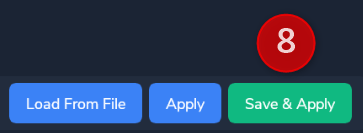
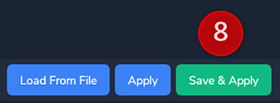
Added additional throttle without reverser and detents.

diff --git a/docs/start/throttle-calibration.md b/docs/start/throttle-calibration.md
@@ -1,5 +1,9 @@
 # Throttle Calibration FlyByWire A32NX
 
+## Quick Start Summary
+
+TODO
+
 ## TCA or similar (with reverser on axis)
 
 ![Thrustmaster TCA](../assets/throttle-calibration/Thrustmaster-TCA.png "Thrustmaster TCA"){loading=lazy}
@@ -136,21 +140,80 @@ Now let's calibrate the detents as they are **NOT** correct yet - continue with 
 
     ![Test-view](../assets/throttle-calibration/Test-view.jpg "Test-view"){loading=lazy}
 
-**Congratulations! You have successfully calibrated your TCA Throttles!**
+**Congratulations! You have successfully calibrated your TCA Throttle!**
+
+## Throttle without Reverser on Axis and no Detents
+
+This section describes the calibration of a throttle with no Reverser on Axis and also no detents.
+
+Example Thrustmaster TWCS Throttle:
+
+![Thrustmaster TWCS Throttle](../assets/throttle-calibration/Thrustmaster-TWCS-Throttle.png "Thrustmaster TWCS Throttle"){loading=lazy}
+
+The configuration is very similar to the above TCA therefore we are only describing the differences to the settings above.
+
+### Step 1: Microsoft Flight Simulator Controls Option
+
+#### Throttle Sensitivity
+
+Same as described above remove all sensitivity settings and make it linear. You throttle might use different names for the axis. Mve the throttle to see which graph is moving.
+
+![MSFS-Throttle-Sensintivity](../assets/throttle-calibration/MSFS-Throttle-Sensintivity.png "MSFS-Throttle-Sensintivity"){loading=lazy}
+
+#### Throttle Mapping
+
+Instead of `Throttle Axis 1/2` throttles without **Reverser on Axis** often need the `Throttle Axis 1/2 (0 TO 100%)` setting. Some need the `Reverse Axis` box checked, some not. Find the right setting for your throttle by trial and error.
+
+![MSFS ThrottleAxis (0 TO 100%)](../assets/throttle-calibration/MSFS-ThrottleAxis-0to100.jpg "MSFS ThrottleAxis (0 TO 100%)"){loading=lazy}
+
+### Step 2: Calibrating the TCA throttle detents in the FlyByWire flyPad (EFB)
+
+- Go to the flyPad Throttle Calibration page
+
+    ![EFB-Throttle-Calibration-Page](../assets/throttle-calibration/EFB-Calibration-Page2.png "EFB-Throttle-Calibration-Page"){loading=lazy}
+
+- As this throttle has no reverse and only one real axis set the `Reverser on Axis` to OFF **(1)** and also the `Independent Axis` to OFF **(2)**
+
+- Move the throttle all the way back to idle.
+
+- As described above we go through all detents and set the values accordingly with `Set From Throttle`. The easiest way to do that is by having the flyPad in a separate window next to the throttle as in the screenshot below.
+
+    ![Flypad-next-to-Throttle](../assets/throttle-calibration/Flypad-next-to-Throttle.jpg "Flypad-next-to-Throttle"){loading=lazy}
+
+- For the detents CL, FLX and TO GA you can increase the deadzone to make it easier to move your throttle into the detents.
+
+    ![EFB-CLB-Detent](../assets/throttle-calibration/EFB-CLB-Detent.png "EFB-CLB-Detent"){loading=lazy}
+
+    In this example we have set the deadzone to 0.25 on either side of the actual setting. For FLX and TO GA you can use 0.10 or 0.15.
+
+  - Click on "SAVE AND APPLY" **(8)** and test everything
+
+      ![EFB-SaveApply](../assets/throttle-calibration/EFB-SaveApply.png "EFB-SaveApply"){loading=lazy}
+
+**Congratulations! You have successfully calibrated your throttle!**
 
 ## Troubleshooting
 
 TODO
+- red text --> not able to save
 
 ## Manual way with configuration file (only experts)
 
 TODO
+- ThrottleConfiguration.ini
 
 ## Additional video guides
 
 [FBW Tool-Tips | Throttle Calibration](https://www.youtube.com/watch?v=8yZuv2L4jPA&list=PLyIyZ4OtCKhxTSKfpwxxFEROEjAaKta7j)
+
+<iframe width="790" height="450" src="https://www.youtube.com/embed/8yZuv2L4jPA?list=PLyIyZ4OtCKhxTSKfpwxxFEROEjAaKta7j" title="YouTube video player" frameborder="0" allow="accelerometer; autoplay; clipboard-write; encrypted-media; gyroscope; picture-in-picture" allowfullscreen></iframe>
+
+[FBW Tool-Tips | Throttle Calibration](https://www.youtube.com/watch?v=8yZuv2L4jPA&list=PLyIyZ4OtCKhxTSKfpwxxFEROEjAaKta7j)
 [Flybywire A32NX Throttle Calibration Tutorial](https://www.youtube.com/watch?v=9oqFfAMXCcc)
 
+<!--
+<iframe width="790" height="450" src="https://www.youtube.com/embed/9oqFfAMXCcc" title="YouTube video player" frameborder="0" allow="accelerometer; autoplay; clipboard-write; encrypted-media; gyroscope; picture-in-picture" allowfullscreen></iframe>
+-->
 
 
 
